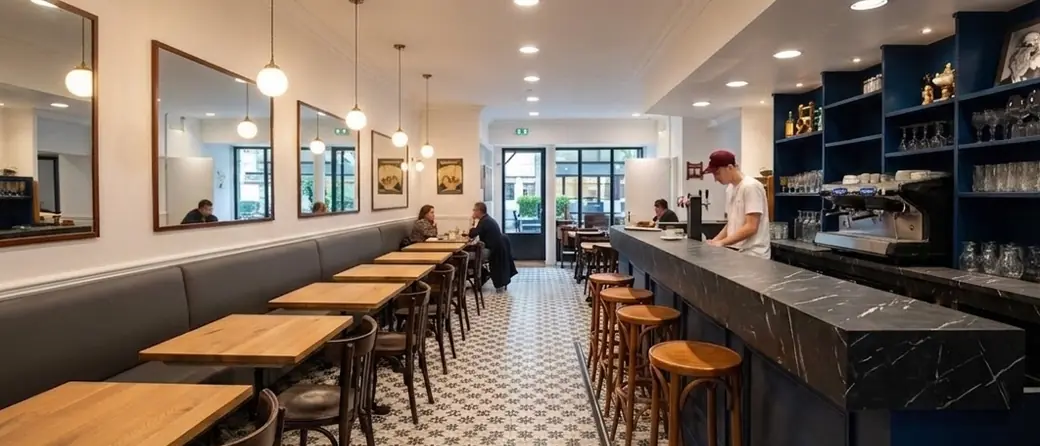
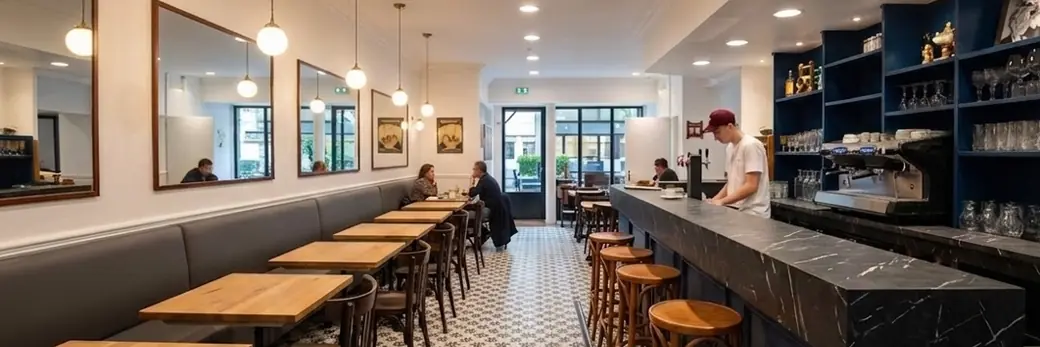
Photo en 3:1, Instagram porte son pseudo et quitte le pied
La photo passe en 3:1. Ni le plafond ni le sol n'apportaient rien : le cadre
ne garde plus que la bande utile — banquette, tables, comptoir, barman. Trois
proportions ont été cadrées et comparées ; au-delà, en 3,5:1, la tête du
barman touche le bord et la scène est à l'étroit. L'image la plus large tombe
de 79 à 65 Ko, et de 44 à 36 en WebP.

Le lien Instagram portait « Voir nos photos sur Instagram ». Il porte
maintenant le pseudo, extrait de l'adresse : c'est lui qu'on cherche, il se
reconnaît d'un coup d'oeil et se retape ailleurs, ce qu'une formule ne permet
pas. Seul le premier segment du chemin est retenu, sinon une adresse du type
/chezauguste_/reels donnerait un faux pseudo.

Il disparaît du pied de page, où il faisait désormais doublon, et la feuille
de style perd les règles devenues orphelines.

diff --git a/public/style.css b/public/style.css
@@ -507,15 +507,24 @@ section {
   min-width: 15rem;
 }
 
-/* Un lien, pas un troisième bouton : trois boutons de même poids feraient
-   perdre au téléphone sa primauté, alors que c'est l'action principale. */
+/* Le pseudo, pas un troisième bouton : trois boutons de même poids feraient
+   perdre au téléphone sa primauté. Il se voit par sa taille et sa couleur,
+   pas par un cadre. */
 .coordonnees__instagram {
-  margin: 1.1rem 0 0;
-  font-size: 0.95rem;
+  margin: 1.3rem 0 0;
 }
 
-.coordonnees__instagram a {
-  text-underline-offset: 0.3em;
+.instagram {
+  font-size: 1.1rem;
+  letter-spacing: 0.02em;
+  text-decoration: none;
+  border-bottom: 1px solid var(--filet-champ);
+  padding-bottom: 0.15rem;
+}
+
+.instagram:hover,
+.instagram:focus {
+  border-bottom-color: var(--rouge);
 }
 
 .bouton {
@@ -698,20 +707,6 @@ section {
 .pied__telephone {
   margin: 2rem 0 0;
   text-align: center;
-}
-
-.pied__reseaux {
-  display: flex;
-  flex-wrap: wrap;
-  gap: 0.5rem 1.6rem;
-  justify-content: center;
-  margin-top: 2.2rem;
-}
-
-.pied__reseaux a {
-  font-size: 0.9rem;
-  letter-spacing: 0.06em;
-  text-underline-offset: 0.25em;
 }
 
 .pied__liens {
@@ -1008,7 +1003,6 @@ section {
   .ornement,
   .aujourdhui,
   .pied__liens,
-  .pied__reseaux,
   .vedettes__lien,
   .entete__accroche {
     display: none;

diff --git a/src/lib/rendu.php b/src/lib/rendu.php
@@ -119,14 +119,14 @@ function info(array $infos, string $cle, string $defaut = ''): string
 /**
  * La photo d'ambiance, dans ses trois largeurs préparées par outils/images.py.
  *
- * Recadrée en 21:9 quelle que soit la source. La salle est tout en longueur,
+ * Recadrée en 3:1 quelle que soit la source. La salle est tout en longueur,
  * un cadre allongé l'épouse — et une image presque carrée en pleine largeur
  * ferait un bloc qui repousse tout le contenu sous la ligne de flottaison.
  *
  * Doit rester d'accord avec SALLE_RATIO dans outils/images.py.
  */
 const SALLE_LARGEURS = [420, 720, 1040];
-const SALLE_RATIO = 2.333;
+const SALLE_RATIO = 3.0;
 
 // ---------------------------------------------------------------------------
 // Les deux pages
@@ -568,6 +568,24 @@ function rendre_aujourdhui(array $infos): string
 }
 
 /**
+ * « https://instagram.com/chezauguste_?igsi=… » → « @chezauguste_ ».
+ *
+ * Le pseudo se reconnaît d'un coup d'oeil et se retape ailleurs ; une formule
+ * comme « voir nos photos » ne se retient pas. À défaut de pseudo lisible
+ * dans l'adresse, on retombe sur le nom du réseau.
+ */
+function pseudo_instagram(string $url): string
+{
+    $chemin = trim((string) parse_url($url, PHP_URL_PATH), '/');
+
+    // On ne garde que le premier segment : /chezauguste_/reels donnerait
+    // autrement un faux pseudo.
+    $pseudo = explode('/', $chemin)[0];
+
+    return $pseudo === '' ? 'Instagram' : '@' . $pseudo;
+}
+
+/**
  * Le message du Sheet — fermeture annuelle, jour férié. Rien s'il est vide.
  *
  * @param array<string, string> $infos
@@ -639,14 +657,15 @@ function rendre_coordonnees(array $infos): string
     }
 
     // Instagram est là que vivent les photos d'un restaurant : le reléguer au
-    // pied de page en faisait une mention de service. Il devient une
-    // invitation, à côté des actions, sans concurrencer le bouton d'appel.
+    // pied de page en faisait une mention de service. Il monte auprès des
+    // actions, et porte le pseudo plutôt qu'une formule — c'est le pseudo
+    // qu'on cherche, et il se reconnaît d'un coup d'oeil.
     $instagram = lien_externe($infos, 'instagram');
 
     if ($instagram !== '') {
         $bloc[] = '      <p class="coordonnees__instagram">'
-            . '<a href="' . e($instagram) . '" target="_blank" rel="noopener me">'
-            . 'Voir nos photos sur Instagram</a></p>';
+            . '<a class="instagram" href="' . e($instagram) . '" target="_blank" rel="noopener me">'
+            . e(pseudo_instagram($instagram)) . '</a></p>';
     }
 
     $bloc[] = '    </section>';
@@ -754,28 +773,9 @@ function rendre_pied(array $infos): string
             . e(lien_telephone($telephone)) . '">' . e($telephone) . '</a></p>';
     }
 
-    $reseaux = [
-        'instagram' => 'Instagram',
-        'facebook' => 'Facebook',
-    ];
-
-    $liens = [];
-
-    foreach ($reseaux as $cle => $libelle) {
-        $url = lien_externe($infos, $cle);
-
-        if ($url !== '') {
-            $liens[] = '      <a href="' . e($url) . '" target="_blank" rel="noopener me">'
-                . e($libelle) . '</a>';
-        }
-    }
-
-    if ($liens !== []) {
-        $lignes[] = '    <nav class="pied__reseaux" aria-label="Réseaux sociaux">';
-        array_push($lignes, ...$liens);
-        $lignes[] = '    </nav>';
-    }
-
+    // Les réseaux ne sont plus repris ici : ils figurent auprès des
+    // coordonnées, où ils se voient. Les répéter en bas ferait doublon.
+    //
     // Le menu principal couvre déjà les pages du site : le pied ne reprend
     // que ce qui n'a pas sa place en haut.
     $lignes[] = '    <nav class="pied__liens" aria-label="Informations légales">';

diff --git a/outils/images.py b/outils/images.py
@@ -48,15 +48,15 @@ LOGO_PLAGE = "30%,50%"
 # SALLE_LARGEURS et SALLE_RATIO dans src/lib/rendu.php.
 SALLE_LARGEURS = (420, 720, 1040)
 
-# 21:9. La salle est tout en longueur : un cadre allongé l'épouse. Un 3:2
-# empilait beaucoup de sol et repoussait le contenu vers le bas ; au-delà de
-# 2,6:1, les suspensions sont coupées et la scène devient une tranche.
-SALLE_RATIO = 2.333
+# 3:1. La salle est tout en longueur : un cadre très allongé l'épouse, et ni
+# le plafond ni le sol n'apportent rien. Le cadre garde la bande utile —
+# banquette, tables, comptoir, barman. Au-delà, en 3,5:1, la tête du barman
+# touche le bord et la scène est à l'étroit.
+SALLE_RATIO = 3.0
 
-# Quelle part du surplus de hauteur on retire par le haut. On garde les
-# globes et la banquette, on rogne le sol, qui n'apporte rien.
+# Quelle part du surplus de hauteur on retire par le haut.
 # Exprimé en proportion et non en pixels, pour tenir avec une autre photo.
-SALLE_CADRAGE = 0.35
+SALLE_CADRAGE = 0.36
 
 
 def executer(arguments: list[str]) -> None:
